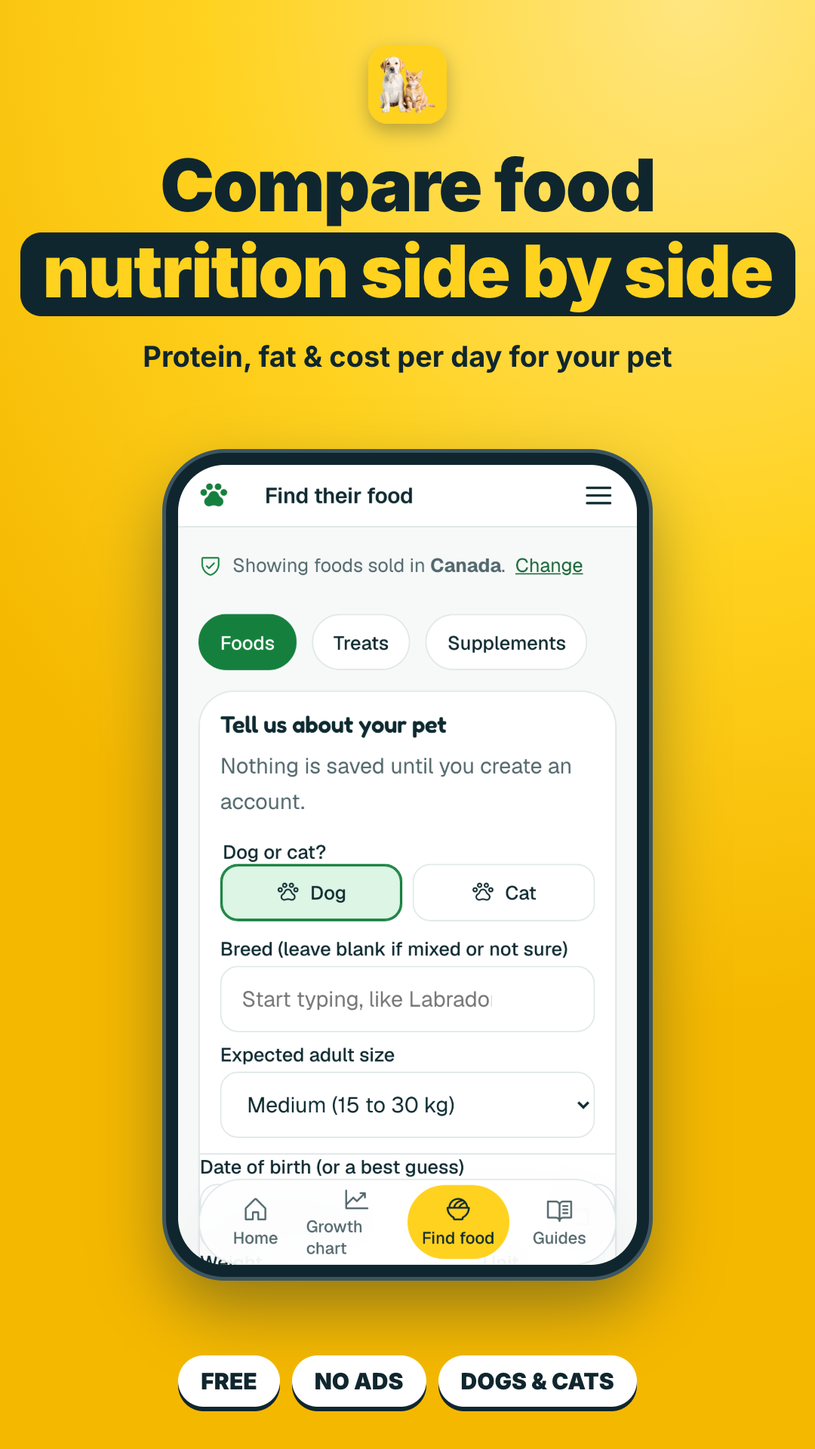
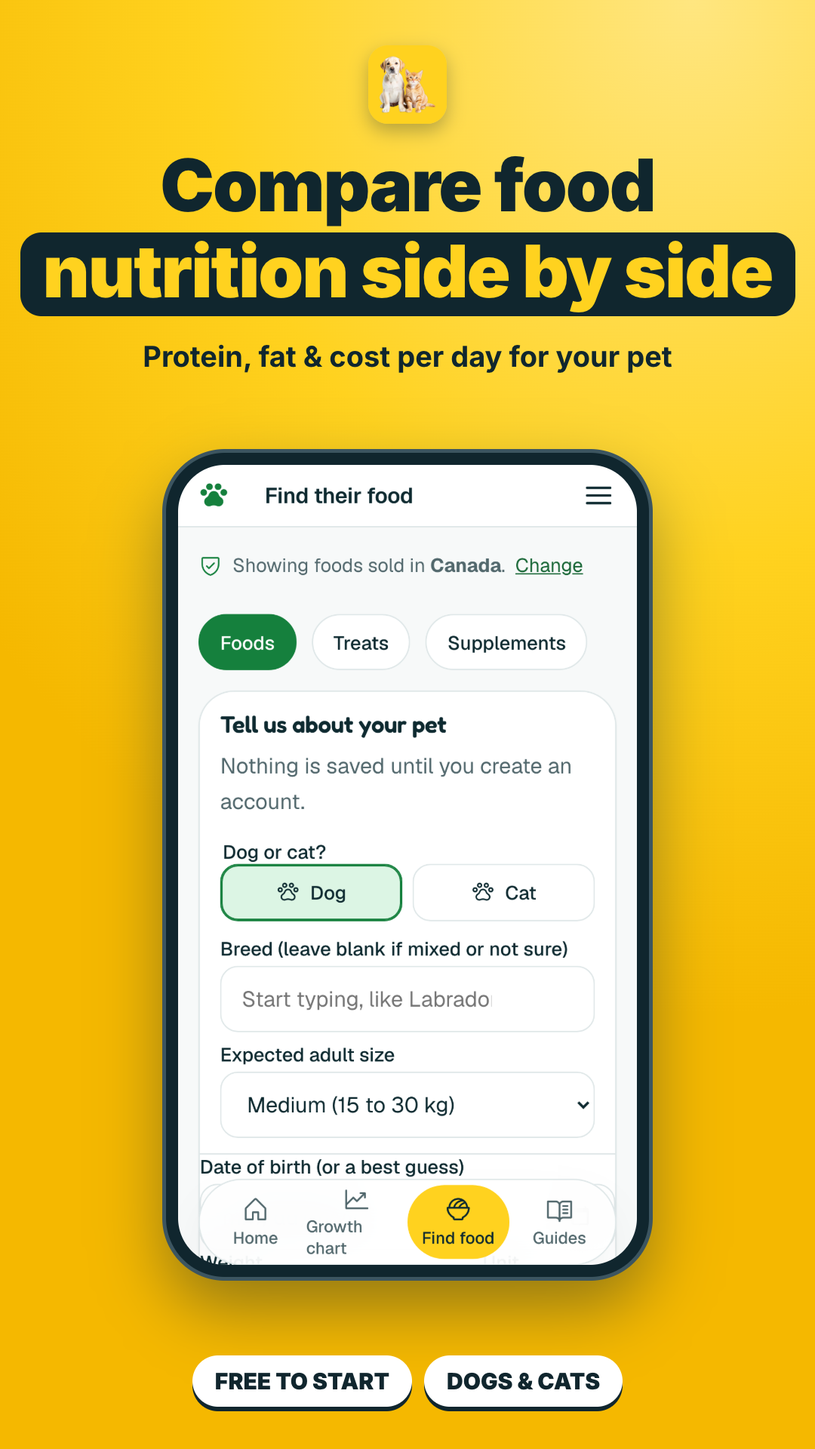
Password sign-in for existing accounts, set-password in Profile, delete-account page, legal text fixes
- Mobile: "Have a password? Sign in with email" (no password sign-up) and Profile > Set a password
- Website: /delete-account page (Play Console Delete account URL), footer link, sitemap
- Legal text: contact email, Google/email accounts instead of anonymous, retention, hosting, region
- Play screenshots: badge "FREE TO START" instead of "NO ADS"

Changed region(s): [[0.2139, 0.9375, 0.7944, 1.0]]

diff --git a/prototype/js/screens/legal.js b/prototype/js/screens/legal.js
@@ -5,7 +5,7 @@ import { breadcrumbLd, crumbsHtml } from '../seo.js';
 
 export const LEGAL = {
   operator: '[TODO: legal name of operator / company]',
-  email: '[TODO: contact email]',
+  email: 'contact@choseno.com',
   updated: '21 October 2026',
 };
 const TEMPLATE_NOTE = '<!-- Template — have a lawyer licensed in BC review before launch. -->';
@@ -47,10 +47,10 @@ export function terms() {
       ['1. Who we are and agreement', `These terms are an agreement between you and ${O()} ("we", "us"), a founder based in Vancouver, British Columbia, Canada, operating Pet Diet & Weight Tracker (the "Service"). By using the Service you agree to these terms. If you do not agree, please do not use it.`],
       ['2. Not veterinary advice', 'The Service provides general, experimental information only. Our <a href="/disclaimer">Medical &amp; Data Disclaimer</a> forms part of these terms. Nothing on the Service is veterinary advice or creates a veterinarian-client-patient relationship. You agree to verify information with at least one other reliable source and your veterinarian before acting on it for any pet.'],
       ['3. Beta service and assumption of risk', 'The Service is in beta. We try to provide the best information available, but it may be wrong, incomplete or out of date, and you should not expect it to be accurate. To the fullest extent permitted by law, we are not responsible for decisions you make, or any loss or harm to you or a pet, from relying on it. You use the Service and any information from it at your own risk. Feeding, diet changes, weight plans and treats carry real risks to animals, and you accept those risks.'],
-      ['4. Eligibility and accounts', 'You must be old enough to form a binding contract where you live, or use the Service with a parent or guardian\'s permission. The Service may create an anonymous account automatically so your pet profile can be saved. You are responsible for activity on your device and account. We may suspend or terminate access, or delete content, if you breach these terms or misuse the Service, and you may stop using it at any time.'],
+      ['4. Eligibility and accounts', 'You must be old enough to form a binding contract where you live, or use the Service with a parent or guardian\'s permission. You need a free account (Google sign-in, or email and password) to save a pet profile. You are responsible for activity on your device and account. We may suspend or terminate access, or delete content, if you breach these terms or misuse the Service, and you may stop using it at any time.'],
       ['5. Reviews and other user content', 'Reviews and other content you submit are your own opinions and remain yours. You give us a worldwide, non-exclusive, royalty-free, perpetual licence to host, store, display, reproduce, adapt (for example to fit a layout or translate) and distribute it in connection with the Service. You confirm you have the right to post it and that it is honest and based on your own experience.', 'You must not post content that is false or misleading, defamatory, hateful, harassing, obscene or illegal; infringes someone else\'s rights; contains personal information about others; is spam, advertising or undisclosed paid or incentivised content; or contains malware.', 'We may review, moderate, refuse, edit for formatting, or remove any content at our discretion, and we are not obliged to publish anything. We do not endorse user content.'],
       ['6. Products, trademarks and third parties', 'Product names, brand names and trademarks belong to their owners. Their appearance on the Service does not mean those owners endorse us or that we endorse their products. Links to third-party websites are provided for convenience; we do not control them and are not responsible for their content, products or practices.'],
-      ['7. Affiliate links', 'The Service does not currently contain affiliate links. [TODO: affiliate disclosure placeholder — if affiliate links are added later, we may earn a commission when you buy through them, at no extra cost to you. Affiliate relationships will not change how foods are scored, and will be clearly disclosed.]'],
+      ['7. Affiliate links', 'The Service does not currently contain affiliate links. If affiliate links are added later, we may earn a commission when you buy through them, at no extra cost to you. Affiliate relationships will not change how foods are scored, and will be clearly disclosed.'],
       ['8. Our intellectual property', 'The Service, its design, text, graphics, code and compilations of data (excluding user content and third-party data licensed to us) belong to us or our licensors. Data from third-party sources remains subject to its own licence (for example CC BY 4.0 or ODbL), as credited in the site footer. You may use the Service for personal, non-commercial purposes. You must not copy, scrape, resell or reverse-engineer it except as the law allows.'],
       ['9. No warranties', 'The Service is provided "as is" and "as available", without warranties of any kind, express or implied, including accuracy, completeness, timeliness, fitness for a particular purpose, merchantability and non-infringement, to the fullest extent permitted by law. We do not guarantee the Service will be uninterrupted, secure or error-free.'],
       ['10. Limitation of liability', 'To the fullest extent permitted by law, we will not be liable for any indirect, incidental, special, consequential or punitive damages, or for any loss or harm to you or any animal, arising from your use of, or reliance on, the Service or its content. Our total liability for any claim relating to the Service is limited to the greater of the amount you paid us in the 12 months before the claim (if any) or CAD $50. Some jurisdictions do not allow certain limitations, so some of these may not apply to you; nothing in these terms limits rights you have under applicable consumer law that cannot be excluded.'],
@@ -70,31 +70,50 @@ export function privacy() {
       ['Who is responsible', `${O()}, a founder based in Vancouver, British Columbia, Canada, is responsible for personal information handled through Pet Diet & Weight Tracker. Contact: ${MAIL()}.`],
       ['What we collect', 'We keep this short because we collect little:', [
         '<strong>Pet profile</strong>: your pet\'s name, species, breed or size group, birth date or age, sex, neuter status, weight, body condition, activity, allergies, health notes, goals, saved foods and weigh-ins (dates, weights, body condition scores).',
-        '<strong>Anonymous account</strong>: when the app starts it creates an anonymous account with our database provider (Supabase) and stores a sign-in token on your device. We do not ask for your name or email to start. [TODO: if email "magic link" sign-in is added, describe the email address collected.]',
+        '<strong>Account</strong>: if you sign in with Google we receive your name and email address from Google; if you use email and password we store your email address and a hashed (not readable) password. Accounts are handled by our database provider (Supabase), and a sign-in token is stored on your device. You can use the foods, guides and tools pages without an account.',
         '<strong>Reviews</strong> you choose to write: rating, text, how long you fed the food, the label you give your pet, and your pet\'s species, size group and approximate age.',
         '<strong>Technical data</strong> that any web request involves, such as IP address, browser type and request time, processed by our hosting and database providers for security and operation.',
-        '<strong>Label photos</strong>: the current prototype does not upload label photos. [TODO: update if photo upload or OCR is added.]',
+        '<strong>Label photos</strong>: the service does not upload label photos. We will update this policy if that changes.',
       ]],
-      ['Local storage and cookies', 'We store your pet profile, saved foods and sign-in token in your browser\'s local storage (keys starting with "pnm.") so the app works offline and remembers you. We do not currently use advertising cookies or third-party analytics. [TODO: update this section if analytics are added.] Clearing your browser storage removes the local copy.'],
+      ['Local storage and cookies', 'We store your pet profile, saved foods and sign-in token in your browser\'s local storage (keys starting with "pnm.") so the app works offline and remembers you. We do not currently use advertising cookies or third-party analytics. We will update this section if that changes. Clearing your browser storage removes the local copy.'],
       ['Why we use it, and legal bases', [
         'To provide the service: calculate growth, calories and food matches and save your profile (performance of a contract / necessary for the service you asked for).',
         'To publish reviews you choose to submit, and to moderate them (consent and our legitimate interest in a trustworthy review section).',
         'To keep the service secure, prevent abuse and fix problems (legitimate interests).',
         'To meet legal obligations.',
       ], 'Under Canadian law (PIPEDA and BC PIPA) we rely on your consent, which you give by using the features described here; you may withdraw it at any time, subject to legal limits.'],
-      ['Sharing', 'We do not sell or rent personal information and do not share it for advertising. We share it only with service providers who process it for us under contract: Supabase (database and authentication) and our website hosting provider [TODO: name hosting provider, e.g. Vercel or Netlify]. Published reviews are visible to everyone, without your name. We may disclose information if required by law or to protect rights and safety.'],
-      ['International transfers', 'Our providers may store and process data outside your country, including in the United States [TODO: confirm Supabase project region]. Data stored abroad may be accessible to authorities under local law. Where GDPR or UK GDPR applies, we rely on appropriate safeguards such as Standard Contractual Clauses offered by our providers.'],
-      ['How long we keep it', 'We keep your pet profile and weigh-ins until you delete them or stop using the service for [TODO: e.g. 24 months], after which we delete or anonymise them. Published reviews remain until you ask us to remove them or we remove them under our moderation rules. Backups are overwritten on our providers\' normal cycles.'],
+      ['Sharing', 'We do not sell or rent personal information and do not share it for advertising. We share it only with service providers who process it for us under contract: Supabase (database and authentication) and our website hosting provider, Vercel. Published reviews are visible to everyone, without your name. We may disclose information if required by law or to protect rights and safety.'],
+      ['International transfers', 'Our providers may store and process data outside your country, including in the United States (our database is hosted in the US East region). Data stored abroad may be accessible to authorities under local law. Where GDPR or UK GDPR applies, we rely on appropriate safeguards such as Standard Contractual Clauses offered by our providers.'],
+      ['How long we keep it', 'We keep your pet profile and weigh-ins until you delete them or your account, and we delete accounts that have been inactive for 24 months. Deleting your account also deletes your reviews. Backups are overwritten on our providers\' normal cycles.'],
       ['Your rights', 'Depending on where you live, you can ask to access, correct, delete or receive a copy of your personal information, object to or restrict some processing, and withdraw consent:', [
         '<strong>Canada (PIPEDA, BC PIPA)</strong>: access and correction, withdrawal of consent, and complaints to the Office of the Privacy Commissioner of Canada or the Office of the Information and Privacy Commissioner for British Columbia.',
         '<strong>EU/EEA and UK (GDPR, UK GDPR)</strong>: access, rectification, erasure, restriction, portability, objection, and the right to complain to your local data protection authority.',
         '<strong>California (CCPA/CPRA)</strong>: the right to know, delete and correct, and to non-discrimination. We do not sell or share personal information for cross-context behavioural advertising.',
       ], `To make a request, email ${MAIL()}. We may need to verify the request and will reply within the time the law requires.`],
-      ['How to delete your data', 'On your pet\'s profile page, "Remove this pet profile" deletes the profile from your device and asks our database to delete it. To delete everything we hold, including your anonymous account and any reviews, email us. You can also clear your browser\'s site data to remove the local copy. [TODO: confirm weigh-ins and saved foods are deleted with the pet profile in the database.]'],
+      ['How to delete your data', 'You can delete your account and all data linked to it yourself, in the app (Profile, then Delete my account and data) or on the website (Account, then Delete my data). Step-by-step instructions are on our <a href="/delete-account">Delete your account</a> page. You can also email us and we will delete it for you. Removing a single pet profile deletes that pet\'s weigh-ins, goals and diet items. Clearing your browser\'s site data removes the local copy.'],
       ['Children', 'The service is meant for pet owners and is not directed at children under 13 (or under 16 in the EU/UK). We do not knowingly collect their personal information. If you believe a child has given us information, contact us and we will delete it.'],
       ['Security', 'We use HTTPS, access controls in our database and providers with recognised security practices. No system is perfectly secure, so please avoid putting sensitive personal details in pet names, notes or reviews.'],
       ['Changes', 'We will update this policy when our practices change and change the "Last updated" date above.'],
       ['Contact', `${O()} · Vancouver, British Columbia, Canada · ${MAIL()}`],
+    ]),
+  };
+}
+
+export function deleteAccount() {
+  return {
+    title: 'Delete your account',
+    description: 'How to delete your Pet Diet & Weight Tracker account and the data linked to it, in the app, on the website or by email.',
+    html: page('/delete-account', 'Delete your account', 'How to delete your account and your data.', [
+      ['In the app', 'Open the app, go to <strong>Profile</strong>, choose <strong>Delete my account and data</strong> and confirm. Your account is deleted straight away and you are signed out.'],
+      ['On the website', 'Log in, open <strong>Account</strong>, choose <strong>Delete my data</strong> and confirm.'],
+      ['By email', `Email ${MAIL()} from the address on your account with the subject "Delete my account". We will delete it and reply to confirm, normally within 30 days.`],
+      ['What is deleted', 'Deleting your account permanently deletes:', [
+        'your sign-in details (email address and name),',
+        'your pet profiles, weigh-ins, goals, diet items and saved foods,',
+        'the reviews you wrote.',
+      ], 'This cannot be undone.'],
+      ['What we keep', 'We do not keep a copy of your account data. Our database provider\'s backups are overwritten on their normal cycle, which can take up to 30 days. We may keep records we are required by law to keep.'],
+      ['Delete without deleting your account', 'To remove one pet only, open that pet\'s profile and choose <strong>Remove this pet profile</strong>. This deletes that pet\'s weigh-ins, goals and diet items.'],
     ]),
   };
 }

diff --git a/apps/mobile/store_assets/src/screenshots.hyperframes.html b/apps/mobile/store_assets/src/screenshots.hyperframes.html
@@ -11,4 +11,4 @@
 .ph div{height:1060px;border-radius:62px;overflow:hidden;background:#fff}
 .ph img{width:100%;display:block}
 .ph .and{background:#FFD21F;text-align:center}.ph .and img{height:100%;width:auto;display:inline-block}
-</style></head><body><div id="root" data-composition-id="main" data-start="0" data-duration="7" data-width="1080" data-height="1920"><div class="sc clip" data-start="0" data-duration="1" data-track-index="0"><img class="ic" src="src/icon.png"><div class="hd">Pet diet tracker<br><em>for dogs &amp; cats</em></div><div class="sub">Free · daily calories, nutrition &amp; weight</div><div class="ph"><div class="and"><img src="src/android_home.png"></div></div><div class="badges"><span>FREE</span><span>NO ADS</span><span>DOGS &amp; CATS</span></div></div><div class="sc clip" data-start="1" data-duration="1" data-track-index="0"><img class="ic" src="src/icon.png"><div class="hd">Compare food<br><em>nutrition side by side</em></div><div class="sub">Protein, fat &amp; cost per day for your pet</div><div class="ph"><div class=""><img src="src/web_foods.png"></div></div><div class="badges"><span>FREE</span><span>NO ADS</span><span>DOGS &amp; CATS</span></div></div><div class="sc clip" data-start="2" data-duration="1" data-track-index="0"><img class="ic" src="src/icon.png"><div class="hd">Track weight<br><em>&amp; growth</em></div><div class="sub">Puppy and kitten growth chart with percentile</div><div class="ph"><div class=""><img src="src/web_growth.png"></div></div><div class="badges"><span>FREE</span><span>NO ADS</span><span>DOGS &amp; CATS</span></div></div><div class="sc clip" data-start="3" data-duration="1" data-track-index="0"><img class="ic" src="src/icon.png"><div class="hd">Can my dog<br><em>eat this?</em></div><div class="sub">Check toxic foods before you share a snack</div><div class="ph"><div class=""><img src="src/web_toxic.png"></div></div><div class="badges"><span>FREE</span><span>NO ADS</span><span>DOGS &amp; CATS</span></div></div><div class="sc clip" data-start="4" data-duration="1" data-track-index="0"><img class="ic" src="src/icon.png"><div class="hd">Check homemade<br><em>meals</em></div><div class="sub">Calories, protein &amp; calcium gaps in seconds</div><div class="ph"><div class=""><img src="src/web_recipe.png"></div></div><div class="badges"><span>FREE</span><span>NO ADS</span><span>DOGS &amp; CATS</span></div></div><div class="sc clip" data-start="5" data-duration="1" data-track-index="0"><img class="ic" src="src/icon.png"><div class="hd">Feeding guides in<br><em>plain English</em></div><div class="sub">Labels, AAFCO, portions &amp; healthy weight</div><div class="ph"><div class=""><img src="src/web_guides.png"></div></div><div class="badges"><span>FREE</span><span>NO ADS</span><span>DOGS &amp; CATS</span></div></div><div class="sc clip" data-start="6" data-duration="1" data-track-index="0"><img class="ic" src="src/icon.png"><div class="hd">Foods matched<br><em>to your pet</em></div><div class="sub">Age, size, allergies &amp; goals · dogs and cats</div><div class="ph"><div class=""><img src="src/web_home.png"></div></div><div class="badges"><span>FREE</span><span>NO ADS</span><span>DOGS &amp; CATS</span></div></div></div></body></html>
+</style></head><body><div id="root" data-composition-id="main" data-start="0" data-duration="7" data-width="1080" data-height="1920"><div class="sc clip" data-start="0" data-duration="1" data-track-index="0"><img class="ic" src="src/icon.png"><div class="hd">Pet diet tracker<br><em>for dogs &amp; cats</em></div><div class="sub">Free · daily calories, nutrition &amp; weight</div><div class="ph"><div class="and"><img src="src/android_home.png"></div></div><div class="badges"><span>FREE TO START</span><span>DOGS &amp; CATS</span></div></div><div class="sc clip" data-start="1" data-duration="1" data-track-index="0"><img class="ic" src="src/icon.png"><div class="hd">Compare food<br><em>nutrition side by side</em></div><div class="sub">Protein, fat &amp; cost per day for your pet</div><div class="ph"><div class=""><img src="src/web_foods.png"></div></div><div class="badges"><span>FREE TO START</span><span>DOGS &amp; CATS</span></div></div><div class="sc clip" data-start="2" data-duration="1" data-track-index="0"><img class="ic" src="src/icon.png"><div class="hd">Track weight<br><em>&amp; growth</em></div><div class="sub">Puppy and kitten growth chart with percentile</div><div class="ph"><div class=""><img src="src/web_growth.png"></div></div><div class="badges"><span>FREE TO START</span><span>DOGS &amp; CATS</span></div></div><div class="sc clip" data-start="3" data-duration="1" data-track-index="0"><img class="ic" src="src/icon.png"><div class="hd">Can my dog<br><em>eat this?</em></div><div class="sub">Check toxic foods before you share a snack</div><div class="ph"><div class=""><img src="src/web_toxic.png"></div></div><div class="badges"><span>FREE TO START</span><span>DOGS &amp; CATS</span></div></div><div class="sc clip" data-start="4" data-duration="1" data-track-index="0"><img class="ic" src="src/icon.png"><div class="hd">Check homemade<br><em>meals</em></div><div class="sub">Calories, protein &amp; calcium gaps in seconds</div><div class="ph"><div class=""><img src="src/web_recipe.png"></div></div><div class="badges"><span>FREE TO START</span><span>DOGS &amp; CATS</span></div></div><div class="sc clip" data-start="5" data-duration="1" data-track-index="0"><img class="ic" src="src/icon.png"><div class="hd">Feeding guides in<br><em>plain English</em></div><div class="sub">Labels, AAFCO, portions &amp; healthy weight</div><div class="ph"><div class=""><img src="src/web_guides.png"></div></div><div class="badges"><span>FREE TO START</span><span>DOGS &amp; CATS</span></div></div><div class="sc clip" data-start="6" data-duration="1" data-track-index="0"><img class="ic" src="src/icon.png"><div class="hd">Foods matched<br><em>to your pet</em></div><div class="sub">Age, size, allergies &amp; goals · dogs and cats</div><div class="ph"><div class=""><img src="src/web_home.png"></div></div><div class="badges"><span>FREE TO START</span><span>DOGS &amp; CATS</span></div></div></div></body></html>

diff --git a/apps/mobile/lib/presentation/features/auth/sign_in_screen.dart b/apps/mobile/lib/presentation/features/auth/sign_in_screen.dart
@@ -11,6 +11,8 @@ import '../../providers/providers.dart';
 import '../../widgets/app_button.dart';
 import '../../widgets/sheet.dart';
 
+// Password sign-in is only for accounts that already exist (the app never signs people up with a password).
+
 const _benefits = [
   (PhosphorIconsFill.chartLineUp, 'A growth chart that follows them'),
   (PhosphorIconsFill.fire, 'Daily calories worked out for your pet'),
@@ -41,6 +43,10 @@ class _SignInScreenState extends ConsumerState<SignInScreen> {
     }
   }
 
+  void _emailSheet() {
+    showAppSheet<void>(context, title: 'Sign in with email', builder: (_) => _EmailSignIn(onSignIn: (e, p) => ref.read(authRepoProvider).signInWithPassword(e, p)));
+  }
+
   @override
   Widget build(BuildContext context) {
     final c = context.colors;
@@ -64,7 +70,7 @@ class _SignInScreenState extends ConsumerState<SignInScreen> {
                   ),
                 const SizedBox(height: AppSpace.s4),
                 AppButton(label: 'Continue with Google', icon: PhosphorIconsBold.googleLogo, variant: AppButtonVariant.dark, block: true, loading: busy, onPressed: _go),
-                const SizedBox(height: AppSpace.s2),
+                Center(child: TextButton(onPressed: _emailSheet, child: Text('Have a password? Sign in with email', style: context.text.bodyMedium!.copyWith(color: AppColors.brandInk, fontWeight: FontWeight.w600)))),
                 Center(
                   child: TextButton(
                     onPressed: () => launchUrl(Uri.parse('${Env.siteUrl}/privacy'), mode: LaunchMode.externalApplication),
@@ -77,5 +83,55 @@ class _SignInScreenState extends ConsumerState<SignInScreen> {
         ),
       ),
     );
+  }
+}
+
+/// Email and password for existing accounts. No sign-up here; "Forgot password" opens the website reset page.
+class _EmailSignIn extends StatefulWidget {
+  const _EmailSignIn({required this.onSignIn});
+  final Future<void> Function(String email, String password) onSignIn;
+
+  @override
+  State<_EmailSignIn> createState() => _EmailSignInState();
+}
+
+class _EmailSignInState extends State<_EmailSignIn> {
+  final _email = TextEditingController();
+  final _password = TextEditingController();
+  bool _busy = false;
+  String? _error;
+
+  @override
+  void dispose() {
+    _email.dispose();
+    _password.dispose();
+    super.dispose();
+  }
+
+  Future<void> _submit() async {
+    if (_email.text.trim().isEmpty || _password.text.isEmpty) {
+      setState(() => _error = 'Enter your email and password.');
+      return;
+    }
+    setState(() { _busy = true; _error = null; });
+    try {
+      await widget.onSignIn(_email.text, _password.text);
+      if (mounted) Navigator.of(context).pop();
+    } catch (_) {
+      if (mounted) setState(() => _error = 'That email and password did not match an account.');
+    } finally {
+      if (mounted) setState(() => _busy = false);
+    }
+  }
+
+  @override
+  Widget build(BuildContext context) {
+    return Column(crossAxisAlignment: CrossAxisAlignment.stretch, children: [
+      FieldBlock(label: 'Email', child: TextField(controller: _email, keyboardType: TextInputType.emailAddress, autofillHints: const [AutofillHints.email], textInputAction: TextInputAction.next, autocorrect: false)),
+      FieldBlock(label: 'Password', child: TextField(controller: _password, obscureText: true, autofillHints: const [AutofillHints.password], textInputAction: TextInputAction.done, onSubmitted: (_) => _submit())),
+      ErrorText(_error),
+      AppButton(label: 'Sign in', variant: AppButtonVariant.dark, block: true, loading: _busy, onPressed: _submit),
+      TextButton(onPressed: () => launchUrl(Uri.parse('${Env.siteUrl}/account'), mode: LaunchMode.externalApplication), child: const Text('Forgot password? Reset it on the website')),
+    ]);
   }
 }

diff --git a/apps/mobile/lib/presentation/features/profile/profile_screen.dart b/apps/mobile/lib/presentation/features/profile/profile_screen.dart
@@ -63,11 +63,43 @@ class ProfileScreen extends ConsumerWidget {
       ]),
       const Gap(AppSpace.s5),
       InsetSection(title: 'Account', footer: user?.email, children: [
+        RowTile(leading: IconBubble(PhosphorIconsRegular.key), title: 'Set a password', subtitle: 'To sign in with email as well as Google', chevron: true, onTap: () => _setPassword(context, ref)),
         RowTile(leading: IconBubble(PhosphorIconsRegular.signOut), title: 'Sign out', onTap: () => ref.read(authRepoProvider).signOut()),
         if (view != null) RowTile(leading: IconBubble(PhosphorIconsRegular.trash, color: context.colors.bad, background: context.colors.badBg), title: 'Remove ${view.pet.name}', destructive: true, onTap: () => _confirm(context, 'Remove ${view.pet.name}?', 'Their weights and diet history will be deleted.', () => ref.read(petsProvider.notifier).removeActive())),
         RowTile(leading: IconBubble(PhosphorIconsRegular.userMinus, color: context.colors.bad, background: context.colors.badBg), title: 'Delete my account and data', destructive: true, onTap: () => _confirm(context, 'Delete your account?', 'Every pet, weight and diet entry is deleted. This cannot be undone.', () => ref.read(authRepoProvider).deleteMyAccount())),
       ]),
     ]);
+  }
+
+  /// New password for the signed-in account (min 8 characters, same rule as the website).
+  void _setPassword(BuildContext context, WidgetRef ref) {
+    final a = TextEditingController();
+    final b = TextEditingController();
+    showAppSheet<void>(context, title: 'Set a password', builder: (ctx) {
+      String? error;
+      bool busy = false;
+      return StatefulBuilder(builder: (ctx, set) {
+        Future<void> save() async {
+          if (a.text.length < 8) return set(() => error = 'Use at least 8 characters.');
+          if (a.text != b.text) return set(() => error = 'The two passwords do not match.');
+          set(() { busy = true; error = null; });
+          try {
+            await ref.read(authRepoProvider).setPassword(a.text);
+            if (ctx.mounted) Navigator.of(ctx).pop();
+            if (context.mounted) showToast(context, 'Password saved. You can now sign in with your email too.');
+          } catch (_) {
+            set(() { busy = false; error = 'Could not save the password. Please try again.'; });
+          }
+        }
+
+        return Column(crossAxisAlignment: CrossAxisAlignment.stretch, children: [
+          FieldBlock(label: 'New password', hint: 'At least 8 characters.', child: TextField(controller: a, obscureText: true, autofillHints: const [AutofillHints.newPassword], textInputAction: TextInputAction.next)),
+          FieldBlock(label: 'Repeat the password', child: TextField(controller: b, obscureText: true, autofillHints: const [AutofillHints.newPassword], textInputAction: TextInputAction.done, onSubmitted: (_) => save())),
+          ErrorText(error),
+          AppButton(label: 'Save password', variant: AppButtonVariant.dark, block: true, loading: busy, onPressed: save),
+        ]);
+      });
+    });
   }
 
   static const _bcsDog = {1: 'Very thin', 3: 'Thin', 4: 'Slightly lean', 5: 'Ideal', 6: 'Slightly heavy', 7: 'Heavy', 9: 'Obese'};

diff --git a/prototype/js/app.js b/prototype/js/app.js
@@ -42,6 +42,7 @@ const ROUTES = [
   [/^\/privacy$/, async () => (await load.legal()).privacy()],
   [/^\/terms$/, async () => (await load.legal()).terms()],
   [/^\/disclaimer$/, async () => (await load.legal()).disclaimer()],
+  [/^\/delete-account$/, async () => (await load.legal()).deleteAccount()],
   [/^\/can-cats-eat\/([\w-]+)$/, async (m) => (await load.toxicPage()).render({ species: 'cat', slug: m[1] })],
 ];
 
@@ -86,7 +87,7 @@ document.addEventListener('keydown', (e) => {
 window.matchMedia('(min-width: 900px)').addEventListener('change', (e) => { if (e.matches && !drawer.hidden) setDrawer(false); });
 
 const footer = document.getElementById('footer');
-footer.innerHTML = `<svg class="footer__wave" viewBox="0 0 1440 90" preserveAspectRatio="none" aria-hidden="true"><path d="M0,50 C180,0 360,90 540,52 C720,14 900,0 1080,40 C1260,84 1380,60 1440,42 L1440,90 L0,90 Z"/></svg><div class="footer__links"><a href="/foods">Dog and cat food finder</a><a href="/guides">Nutrition guides</a><a href="/growth">Puppy growth chart</a><a href="/recipe">Homemade recipe checker</a><a href="/toxic">Can my pet eat this?</a></div><div class="footer__links footer__legal"><a href="/privacy">Privacy Policy</a><a href="/terms">Terms and Conditions</a><a href="/disclaimer">Medical &amp; Data Disclaimer</a></div>
+footer.innerHTML = `<svg class="footer__wave" viewBox="0 0 1440 90" preserveAspectRatio="none" aria-hidden="true"><path d="M0,50 C180,0 360,90 540,52 C720,14 900,0 1080,40 C1260,84 1380,60 1440,42 L1440,90 L0,90 Z"/></svg><div class="footer__links"><a href="/foods">Dog and cat food finder</a><a href="/guides">Nutrition guides</a><a href="/growth">Puppy growth chart</a><a href="/recipe">Homemade recipe checker</a><a href="/toxic">Can my pet eat this?</a></div><div class="footer__links footer__legal"><a href="/privacy">Privacy Policy</a><a href="/terms">Terms and Conditions</a><a href="/disclaimer">Medical &amp; Data Disclaimer</a><a href="/delete-account">Delete your account</a></div>
   <p style="margin:0 0 var(--space-2);max-width:60ch">Made with love for dogs, cats and the people who feed them. Free to use, for pet owners everywhere.</p>
   <p style="margin:0;max-width:60ch">General guidance, not veterinary advice. Always ask your vet about health concerns. Growth data: Salt et al. 2017 (CC BY 4.0). Toxicity data: ASPCA Animal Poison Control and BioVet (CC BY 4.0). Product data: Open Pet Food Facts (ODbL). Nutrient profiles: AAFCO. Breed conditions: canine diet datasets on figshare (CC BY 4.0). Breed exercise: Kaggle dog breeds dataset (CC0).</p>`;
 

diff --git a/prototype/js/seo.js b/prototype/js/seo.js
@@ -43,6 +43,7 @@ export const SEO_BY_PATH = [
   [/^\/growth\/?$/, { title: 'Puppy & Kitten Weight Tracker – Growth Chart & Calorie Goal', desc: "Pet weight tracker: log your puppy's or kitten's weight, see the growth percentile, estimate adult size and get a daily calorie goal. Dogs and cats. Free." }],
   [/^\/privacy\/?$/, { title: 'Privacy Policy – Pet Diet & Weight Tracker', desc: 'What Pet Diet & Weight Tracker collects (pet profiles, weigh-ins, reviews), why, who processes it, your rights under PIPEDA, GDPR and CCPA, and how to delete your data.' }],
   [/^\/terms\/?$/, { title: 'Terms and Conditions – Pet Diet & Weight Tracker', desc: 'Terms for using Pet Diet & Weight Tracker: general information only, not veterinary advice, user reviews, no warranties, liability limits and BC governing law.' }],
+  [/^\/delete-account\/?$/, { title: 'Delete Your Account – Pet Diet & Weight Tracker', desc: 'How to delete your Pet Diet & Weight Tracker account and the data linked to it: in the app, on the website or by email. What is deleted and what is kept.' }],
   [/^\/disclaimer\/?$/, { title: 'Medical & Data Disclaimer – Pet Diet & Weight Tracker', desc: 'Our nutrition data, growth charts, calorie suggestions and food matches are experimental estimates, not veterinary advice. Check with your vet before acting.' }],
   [/^\/pet(\/|$)/, { title: null, desc: "Your pet's growth chart, daily calories and nutrient targets.", robots: 'noindex, nofollow' }],
 ];

diff --git a/apps/mobile/store_assets/src/feature.hyperframes.html b/apps/mobile/store_assets/src/feature.hyperframes.html
@@ -13,7 +13,7 @@ h1 em{font-style:normal;display:inline-block;background:#10262e;color:#FFD21F;pa
 <div class="clip" data-start="0" data-duration="2" data-track-index="0" style="position:absolute;inset:0">
 <img class="ic" src="src/icon.png"><h1>Pet Diet &amp;<br><em>Weight Tracker</em></h1>
 <div class="s">Daily calories, food nutrition &amp; growth for dogs and cats</div>
-<div class="b"><span>FREE</span><span>NO ADS</span></div>
+<div class="b"><span>FREE TO START</span><span>DOGS &amp; CATS</span></div>
 <div class="ph a" style="left:600px;top:70px;transform:rotate(-5deg)"><div><img src="src/android_home.png"></div></div>
 <div class="ph" style="left:780px;top:96px;transform:rotate(5deg)"><div><img src="src/web_foods.png"></div></div>
 </div></div></body></html>

diff --git a/apps/mobile/lib/data/supabase/supabase_auth_repository.dart b/apps/mobile/lib/data/supabase/supabase_auth_repository.dart
@@ -40,12 +40,22 @@ class SupabaseAuthRepository implements AuthRepository {
     }
   }
 
+  @override
+  Future<void> signInWithPassword(String email, String password) async {
+    await _client.auth.signInWithPassword(email: email.trim(), password: password);
+  }
+
   Future<void> _browserSignIn() async {
     await _client.auth.signInWithOAuth(
       sb.OAuthProvider.google,
       redirectTo: kIsWeb ? null : Env.authRedirect,
       authScreenLaunchMode: sb.LaunchMode.externalApplication,
     );
+  }
+
+  @override
+  Future<void> setPassword(String password) async {
+    await _client.auth.updateUser(sb.UserAttributes(password: password));
   }
 
   @override

diff --git a/apps/mobile/lib/domain/repositories/repositories.dart b/apps/mobile/lib/domain/repositories/repositories.dart
@@ -18,6 +18,11 @@ abstract class AuthRepository {
 
   /// Opens the Google sign-in flow; the session arrives through [changes].
   Future<void> signInWithGoogle();
+
+  /// Email and password sign-in for an account that already exists. The app never creates accounts with a password.
+  Future<void> signInWithPassword(String email, String password);
+  /// Sets or changes the password of the signed-in account, so Google accounts can also sign in with email and password.
+  Future<void> setPassword(String password);
   Future<void> signOut();
   Future<void> deleteMyAccount();
 }
